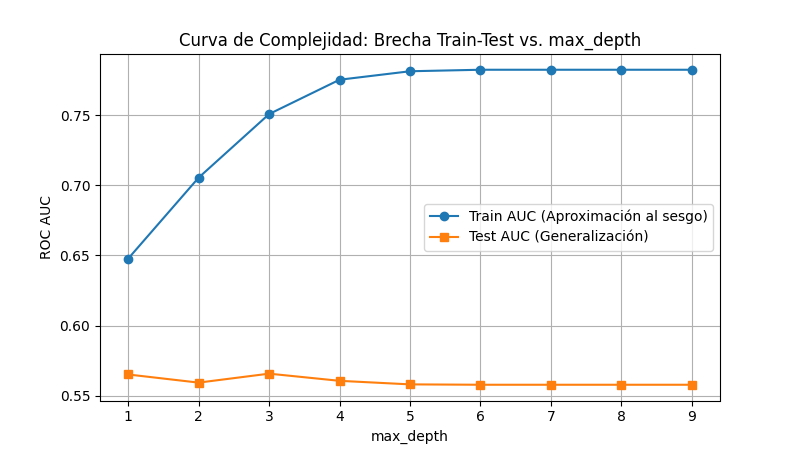
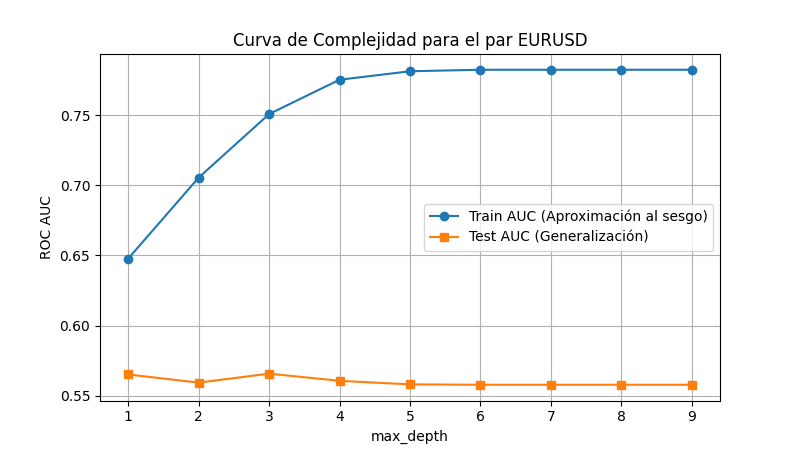
incorporar simbolo en grafico de curva de desempenio

Changed region(s): [[0.2188, 0.0622, 0.8125, 0.1244]]

diff --git a/src/modeling.py b/src/modeling.py
@@ -757,7 +757,7 @@ def curva_desempenio(
     
     plt.xlabel(complexity_var)
     plt.ylabel("ROC AUC")
-    plt.title(f"Curva de Complejidad: Brecha Train-Test vs. {complexity_var}")
+    plt.title(f"Curva de Complejidad para el par {simbolo}")
     plt.legend()
     plt.grid(True)
     plt.show()

diff --git a/README.md b/README.md
@@ -20,7 +20,7 @@ Cuenta con tres fases:
 * *Transformación*: tratamiento de valores inválidos, feature engineering, imputación de valores perdidos, escalado de variables con z-score, transformaciones logarítmicas y de yeo-johnson. Adicionalmente se calculan las variables lag, sobre aquellas que requieran ser desplazadas un período a fin de evitar el sesgo de anticipación (*Lookahead Bias*).
 * *Modelado*: aplicación de modelo  clasificador *RandomForest* con datos completos, prueba de validación con partición de series temporales, evaluación de resultados, exportación de datos y predicciones y módulo para la optimización de hiper-parámetros.
 
-Ademas el fichero `notebook_EDA.ipynb` ubicado en la raiz del proyecto permite realizar un análisis exploratorio de los datos transformados para cada par forex, incluyendo análisis de asimetrías, valores faltantes, gráficos de distribuciones, correlaciones y gráficos de violines representando las variables seleccionadas frente a las 3 clases de la variable objetivo seleccionada.
+Además el fichero `notebook_EDA.ipynb` ubicado en la raiz del proyecto permite realizar un análisis exploratorio de los datos transformados para cada par forex, incluyendo análisis de asimetrías, valores faltantes, gráficos de distribuciones, correlaciones y gráficos de violines representando las variables seleccionadas frente a las 3 clases de la variable objetivo seleccionada.
 
 El mismo pipeline permite modelar los 6 cruces principales de divisas Forex contra el dólar estadounidense. Cada par de divisas cuenta con sus propios parámetros en el procesamiento de datos durante la fase de transformación.
 
